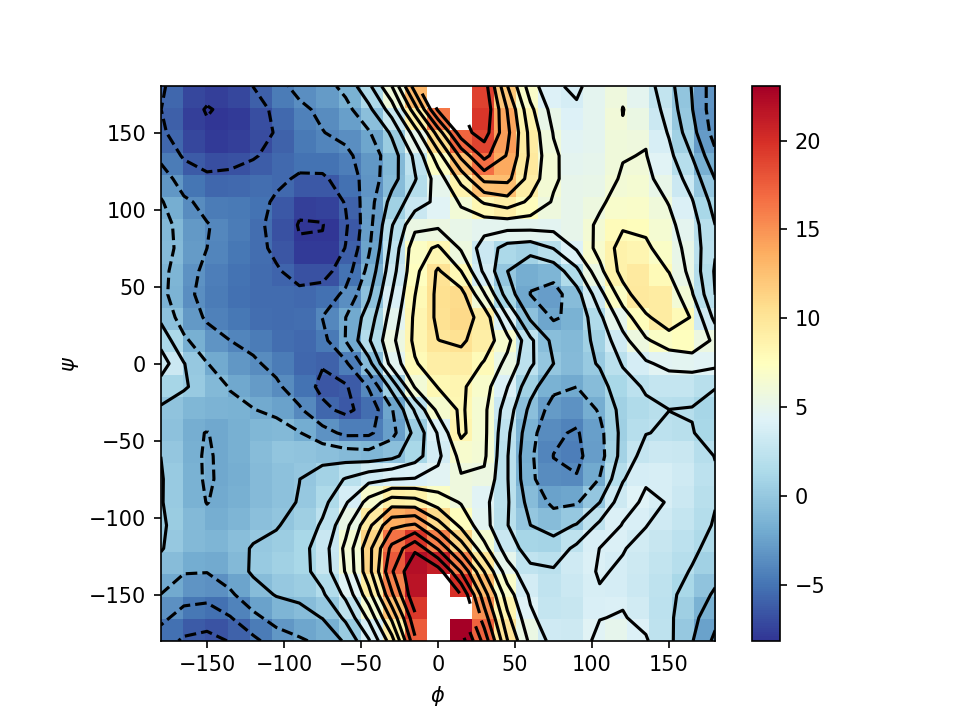
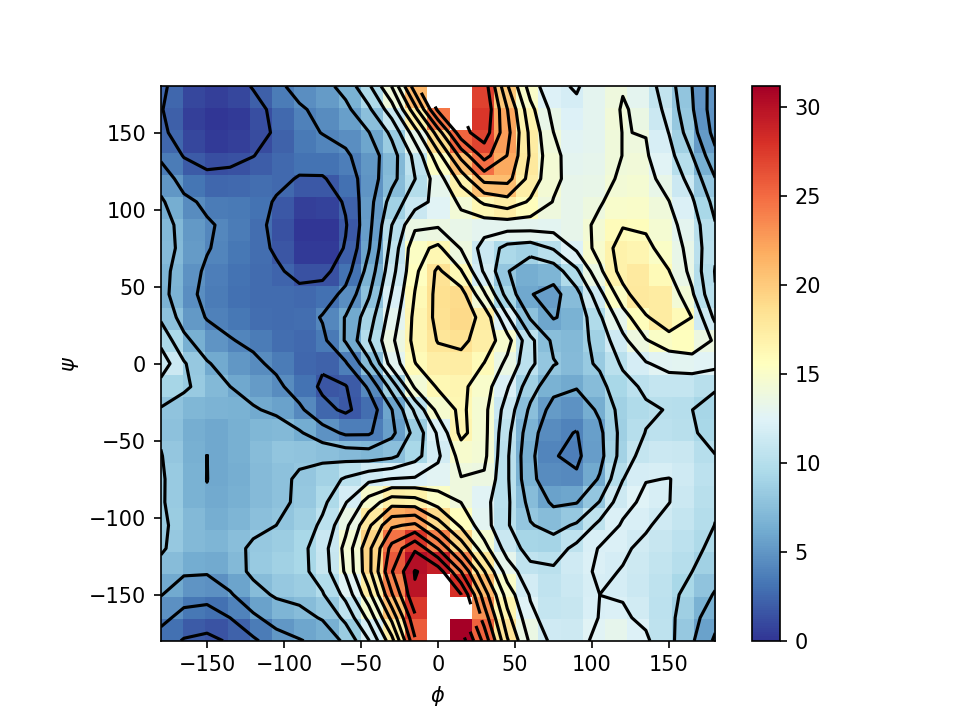
cleanup

diff --git a/examples/combustion/analyze.py b/examples/combustion/analyze.py
@@ -318,6 +318,12 @@ def count_glycine_for_a_frame_and_set_GLY_resname(top_file, traj_file, frame_num
 
     df_per_atom, df_per_frag = neighborlist_to_fragment(atom_index12, species)
     interesting_formula = {"C2H5NO2": {"smiles": "NCC(=O)O", "resname": "GLY"}}
+    # interesting_formula = {"C2H5NO2": {"smiles": "NCC(=O)O", "resname": "GLY"}, "C21H32N3O3": {"smiles": "NCC(=O)O", "resname": "C21"}, "C4H8N2O3": {"smiles": "C(C(=O)NCC(=O)O)N", "resname": "GLY"},
+    #                        "C6H12N2O2": {"smiles": "CC(C(=O)NC)NC(=O)C", "resname": "ALA"} }
+
+    # interesting_formula = {"C21H32N3O3": {"smiles": "NCC(=O)O", "resname": "C21"}, "C4H8N2O3": {"smiles": "C(C(=O)NCC(=O)O)N", "resname": "GLY"},
+    #                        "C6H12N2O2": {"smiles": "CC(C(=O)NC)NC(=O)C", "resname": "ALA"} }
+    # interesting_formula = {"C3H7NO2": {"smiles": "CC(C(=O)O)N", "resname": "ALA"} }
 
     df_per_frag_filtered = df_per_frag[df_per_frag['formula'].isin(interesting_formula.keys())]
     # breakpoint()
@@ -325,8 +331,10 @@ def count_glycine_for_a_frame_and_set_GLY_resname(top_file, traj_file, frame_num
     atoms_df, bonds_df = traj.topology.to_dataframe()
     num_filtered_fragments = df_per_frag_filtered.shape[0]
     glycine_count = 0
+
     for idx in range(num_filtered_fragments):
         fragment = df_per_frag_filtered.iloc[idx]
+        print(idx, fragment.formula, fragment.atom_indices)
         # TODO we could resemble the molecule and check if it has the same smiles
         sliced_atoms = traj.atom_slice(fragment.atom_indices)
         # Save the sliced atoms to a temporary xyz file and read it with RDKit
@@ -387,15 +395,22 @@ def count_glycine(top_file, traj_file, csv_file):
 
     total_glycine_count = 0
     glycine_counts = []  # List to store glycine counts for each row
-    for index, row in df_C2H5NO2.iterrows():
-        count_number = row['counts']
-        frame_number = row['frame']
+    print("total frames", len(df_C2H5NO2))
+    for index, row in enumerate(df_C2H5NO2.itertuples()):
+        count_number = row.counts
+        frame_number = row.frame
         _, _, glycine_count = count_glycine_for_a_frame_and_set_GLY_resname(top_file, traj_file, frame_number)
         total_glycine_count += glycine_count
         glycine_counts.append(glycine_count)  # Append the count to the list
         import sys
-        print("frame_number: ", frame_number, ", Total C2H5NO2 count: ", count_number, ", Total so far: ", total_glycine_count)
+        print("frame_number: ", frame_number, ", formula: ", row.formula,", Total C2H5NO2 count: ", count_number, ", Total so far: ", total_glycine_count)
         sys.stdout.flush()
+
+        # Save the DataFrame to a CSV file every 1000 frames for robustness.
+        if index % 1000 == 0:
+            df_C2H5NO2.loc[df_C2H5NO2.index[:index+1], 'glycine_count'] = glycine_counts[:index+1]
+            temp_csv_name = Path(csv_file).with_name(f"{Path(csv_file).stem}_glycine_count_temp.csv")
+            df_C2H5NO2.to_csv(temp_csv_name, index=False)
 
     # Add the glycine_counts list as a new column to the DataFrame
     df_C2H5NO2['glycine_count'] = glycine_counts

diff --git a/examples/alanine-dipeptide-umbrella/vacuum-new-model/plot.py b/examples/alanine-dipeptide-umbrella/vacuum-new-model/plot.py
@@ -9,8 +9,8 @@ from pathlib import Path
 
 log_dir = "logs-umbrella"
 plot_file = f"PMF_fast_mbar.png"
-pdb = "alanine-dipeptide.vacuum.pdb"
-topology = mdtraj.load_pdb(pdb)
+# pdb = "alanine-dipeptide.vacuum.pdb"
+# topology = mdtraj.load_pdb(pdb)
 
 # psi_indices = [6, 8, 14, 16]
 # phi_indices = [4, 6, 8, 14]
@@ -117,6 +117,7 @@ data_PMF = PMF.reshape((l_PMF, l_PMF))
 flipped_data_PMF = np.flipud(data_PMF)
 
 # imshow
+flipped_data_PMF = flipped_data_PMF - flipped_data_PMF.min()
 im = plt.imshow(flipped_data_PMF, extent = (-180, 180, -180, 180), cmap='RdYlBu_r')
 
 # contour

diff --git a/examples/alanine-dipeptide-umbrella/water-new-model/plot.py b/examples/alanine-dipeptide-umbrella/water-new-model/plot.py
@@ -9,8 +9,8 @@ from pathlib import Path
 
 log_dir = "logs-umbrella"
 plot_file = f"PMF_fast_mbar.png"
-pdb = "alanine-dipeptide.vacuum.pdb"
-topology = mdtraj.load_pdb(pdb)
+# pdb = "alanine-dipeptide.npt.pdb"
+# topology = mdtraj.load_pdb(pdb)
 
 # psi_indices = [6, 8, 14, 16]
 # phi_indices = [4, 6, 8, 14]
@@ -117,6 +117,7 @@ data_PMF = PMF.reshape((l_PMF, l_PMF))
 flipped_data_PMF = np.flipud(data_PMF)
 
 # imshow
+flipped_data_PMF = flipped_data_PMF - flipped_data_PMF.min()
 im = plt.imshow(flipped_data_PMF, extent = (-180, 180, -180, 180), cmap='RdYlBu_r')
 
 # contour

diff --git a/examples/alanine-dipeptide-umbrella/vacuum/plot.py b/examples/alanine-dipeptide-umbrella/vacuum/plot.py
@@ -117,6 +117,7 @@ data_PMF = PMF.reshape((l_PMF, l_PMF))
 flipped_data_PMF = np.flipud(data_PMF)
 
 # imshow
+flipped_data_PMF = flipped_data_PMF - flipped_data_PMF.min()
 im = plt.imshow(flipped_data_PMF, extent = (-180, 180, -180, 180), cmap='RdYlBu_r')
 
 # contour

diff --git a/examples/alanine-dipeptide/README.md b/examples/alanine-dipeptide/README.md
@@ -59,7 +59,13 @@ HMR: Hydrogen Mass Repartitioning allows a larger timestep with very easy setup
 Apply HMR using openmm and generate per atom mass data file.
 ```
 python ../apply_hmr.py alanine-dipeptide.vacuum.pdb alanine-dipeptide.vacuum.hmr_mass.data 
+
+
+python ../apply_hmr.py alanine-dipeptide.pdb alanine-dipeptide.water.hmr_mass.data
+echo "" >> alanine-dipeptide.water.hmr.npt.data
+cat alanine-dipeptide.water.hmr_mass.data >> alanine-dipeptide.water.hmr.npt.data
 ```
+
 Then copy the content of the output file into the lammps data file, `Hmrmass` section provides the per atom mass. 
 
 Without HMR, when using a timestep of 2.3 fs in vacuum, the structure break very quickly within 100 steps.
